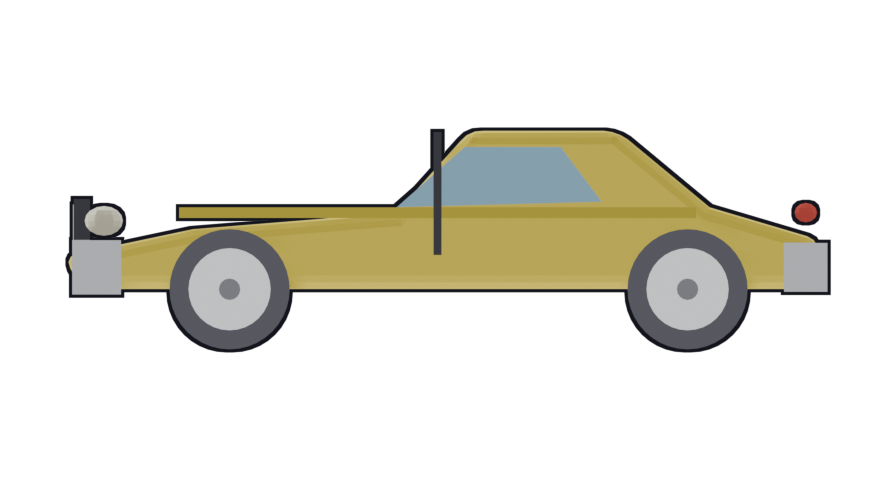
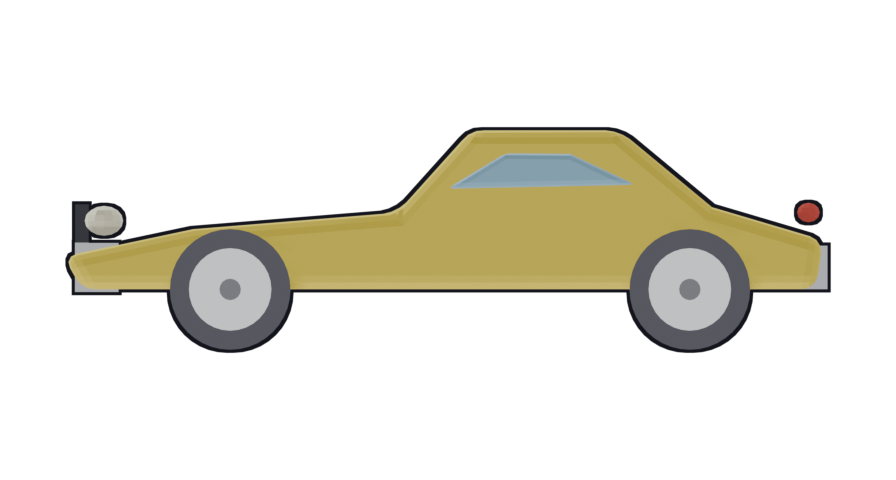
Art: Blender pass — cabin-fitting windows and cleaner cars
Inset glass from each greenhouse silhouette so windows sit inside the
body frame; drop far-side lights/flecks; refresh skyline and trees.

diff --git a/tools/blender/models.py b/tools/blender/models.py
@@ -62,6 +62,20 @@ def _wheel_arch(
     ]
 
 
+def _inset_poly(
+    pts: list[tuple[float, float]], amount: float = 0.1
+) -> list[tuple[float, float]]:
+    """Pull polygon vertices toward the centroid so glass sits inside a frame."""
+    cx = sum(p[0] for p in pts) / len(pts)
+    cz = sum(p[1] for p in pts) / len(pts)
+    out: list[tuple[float, float]] = []
+    for x, z in pts:
+        dx, dz = cx - x, cz - z
+        dist = math.hypot(dx, dz) or 1.0
+        out.append((x + dx / dist * amount, z + dz / dist * amount))
+    return out
+
+
 def _headlight(name: str, loc: tuple[float, float, float], lit: bool = True):
     color = (1.0, 0.95, 0.7, 1.0) if lit else (0.85, 0.55, 0.15, 1.0)
     return mesh_uv_sphere(
@@ -179,16 +193,19 @@ def build_car(
     bevel(body, width=0.05, segments=3)
     parts: list[bpy.types.Object] = [body]
 
-    # Window insert (inset silhouette on the cabin).
+    # Glass fills the cabin with a body frame. Derive from greenhouse corners,
+    # then inset (body bevel ~0.05 + outline need ~0.1 clear frame).
+    glass_w = 1.22
     if kind == "bus":
-        win = extrude_profile(
-            f"{kind}_win",
-            [(1.2, 0.85), (1.3, 1.4), (-1.3, 1.4), (-1.2, 0.85)],
-            width=1.18, material=glass,
+        L = length * 0.5
+        win_pts = _inset_poly(
+            [(L * 0.78, 1.0), (L * 0.82, 1.42), (-L * 0.82, 1.42), (-L * 0.78, 1.0)],
+            0.1,
         )
+        win = extrude_profile(f"{kind}_win", win_pts, width=glass_w, material=glass)
         parts.append(win)
         stripe = mesh_cube(
-            f"{kind}_stripe", (3.3, 1.2, 0.14), (0, 0, 0.7),
+            f"{kind}_stripe", (3.0, 1.16, 0.12), (0, 0, 0.7),
             toon_material(f"{kind}_stripe", (1.0, 0.86, 0.12, 1.0), steps=2),
         )
         parts.append(stripe)
@@ -198,93 +215,106 @@ def build_car(
             toon_material(f"{kind}_seat", (0.45, 0.12, 0.12, 1.0), steps=2),
         )
         bevel(seat, width=0.05, segments=3)
-        screen = mesh_cube(f"{kind}_screen", (0.06, 0.85, 0.4), (0.15, 0, 0.85), glass)
+        # Windscreen sits on the near face only — avoid a full-width fleck.
+        screen = mesh_cube(f"{kind}_screen", (0.04, 0.35, 0.26), (0.12, 0.55, 0.8), glass)
         parts.extend([seat, screen])
     else:
-        # Glass band following the greenhouse roughly.
+        L = length * 0.5
         if kind == "sports":
-            win_pts = [(0.2, 0.5), (-0.05, 0.72), (-0.4, 0.72), (-0.55, 0.52)]
+            cabin = [
+                (L * 0.10, 0.54),
+                (-L * 0.06, 0.74),
+                (-L * 0.40, 0.74),
+                (-L * 0.58, 0.56),
+            ]
+            win_pts = _inset_poly(cabin, 0.12)
         elif kind == "limo":
-            win_pts = [(1.2, 0.65), (0.9, 0.98), (-1.8, 0.98), (-2.2, 0.65)]
+            cabin = [
+                (L * 0.45, 0.74),
+                (L * 0.28, 1.0),
+                (-L * 0.48, 1.0),
+                (-L * 0.64, 0.74),
+            ]
+            win_pts = _inset_poly(cabin, 0.12)
         else:
-            win_pts = [(0.7, 0.7), (0.15, 1.08), (-0.7, 1.08), (-1.1, 0.72)]
-        win = extrude_profile(f"{kind}_win", win_pts, width=1.18, material=glass)
+            # Stay inside A/C pillars after body bevel + PNG outline.
+            roof = 1.2 if kind != "sunroof" else 1.22
+            cabin = [
+                (L * 0.28, 0.78),
+                (L * 0.0, roof - 0.08),
+                (-L * 0.28, roof - 0.08),
+                (-L * 0.42, 0.80),
+            ]
+            win_pts = _inset_poly(cabin, 0.12)
+        win = extrude_profile(f"{kind}_win", win_pts, width=glass_w, material=glass)
+        bevel(win, width=0.02, segments=2)
         parts.append(win)
 
-    # Bumpers + grille + lights.
-    parts.append(mesh_cube(f"{kind}_fb", (0.18, 1.2, 0.2), (length * 0.48, 0, 0.28), chrome))
-    parts.append(mesh_cube(f"{kind}_rb", (0.16, 1.2, 0.18), (-length * 0.48, 0, 0.28), chrome))
-    grille = mesh_cube(
-        f"{kind}_grille", (0.06, 0.7, 0.22), (length * 0.50, 0, 0.42), dark
-    )
-    parts.append(grille)
-    for i, gy in enumerate((-0.18, 0.0, 0.18)):
+    # Bumpers + near-side lights only (far-side lights ghost in ortho +Y).
+    parts.append(mesh_cube(f"{kind}_fb", (0.16, 1.05, 0.18), (length * 0.48, 0, 0.28), chrome))
+    parts.append(mesh_cube(f"{kind}_rb", (0.14, 1.05, 0.16), (-length * 0.48, 0, 0.28), chrome))
+    parts.append(mesh_cube(f"{kind}_grille", (0.05, 0.55, 0.18), (length * 0.50, 0, 0.42), dark))
+    parts.append(_headlight(f"{kind}_hl", (length * 0.47, 0.4, 0.45)))
+    parts.append(_taillight(f"{kind}_tl", (-length * 0.48, 0.4, 0.48)))
+
+    # Body-panel trim — keep below the beltline so it never cuts glass.
+    if kind != "sports":
         parts.append(
             mesh_cube(
-                f"{kind}_gbar{i}", (0.04, 0.08, 0.18),
-                (length * 0.505, gy, 0.42), chrome,
+                f"{kind}_cline", (length * 0.55, 1.12, 0.035), (0.0, 0, 0.46),
+                toon_material(
+                    f"{kind}_cline",
+                    tuple(max(0, c * 0.75) for c in body_color[:3]) + (1.0,),
+                    steps=2,
+                ),
             )
         )
-    parts.append(_headlight(f"{kind}_hl", (length * 0.47, 0.35, 0.45)))
-    parts.append(_headlight(f"{kind}_hl2", (length * 0.47, -0.35, 0.45)))
-    parts.append(_taillight(f"{kind}_tl", (-length * 0.48, 0.35, 0.48)))
-    parts.append(_taillight(f"{kind}_tl2", (-length * 0.48, -0.35, 0.48)))
+        parts.append(mesh_cube(f"{kind}_door", (0.03, 1.12, 0.26), (-0.05, 0, 0.46), dark))
 
-    # Character line + door seam for silhouette interest.
-    parts.append(
-        mesh_cube(
-            f"{kind}_cline", (length * 0.7, 1.17, 0.04), (0.05, 0, 0.48),
-            toon_material(f"{kind}_cline", tuple(max(0, c * 0.75) for c in body_color[:3]) + (1.0,), steps=2),
-        )
-    )
-    parts.append(mesh_cube(f"{kind}_door", (0.03, 1.18, 0.45), (0.05, 0, 0.55), dark))
-
-    # Side-view plates: skip mirrors — they read as floating flecks after outline.
-
-    # Sports spoiler skipped in side-view plates — thin wings become floating flecks.
     if kind == "taxi":
         sign = mesh_cube(
-            f"{kind}_sign", (0.42, 0.3, 0.22), (0.0, 0, 1.25),
+            f"{kind}_sign", (0.36, 0.28, 0.18), (0.0, 0, 1.28),
             toon_material(f"{kind}_sign", (0.12, 0.12, 0.12, 1.0), steps=2),
         )
         glow = mesh_cube(
-            f"{kind}_sg", (0.34, 0.24, 0.12), (0.0, 0, 1.28),
+            f"{kind}_sg", (0.28, 0.22, 0.1), (0.0, 0, 1.32),
             toon_material(f"{kind}_sg", (1.0, 0.85, 0.1, 1.0), steps=2),
         )
         parts.extend([sign, glow])
     elif kind == "police":
         bar = mesh_cube(
-            f"{kind}_bar", (0.55, 0.8, 0.14), (0.0, 0, 1.28),
+            f"{kind}_bar", (0.5, 0.7, 0.12), (0.0, 0, 1.24),
             toon_material(f"{kind}_bar", (0.1, 0.1, 0.12, 1.0), steps=2),
         )
         blue = mesh_uv_sphere(
-            f"{kind}_blue", 0.12, (-0.12, 0, 1.36),
+            f"{kind}_blue", 0.1, (-0.12, 0.15, 1.32),
             toon_material(f"{kind}_blue", (0.15, 0.45, 1.0, 1.0), steps=2),
-            scale=(1.2, 0.8, 0.55),
+            scale=(1.1, 0.7, 0.5),
         )
         red = mesh_uv_sphere(
-            f"{kind}_red", 0.12, (0.12, 0, 1.36),
+            f"{kind}_red", 0.1, (0.12, 0.15, 1.32),
             toon_material(f"{kind}_red", (1.0, 0.15, 0.12, 1.0), steps=2),
-            scale=(1.2, 0.8, 0.55),
+            scale=(1.1, 0.7, 0.5),
         )
         stripe = mesh_cube(
-            f"{kind}_stripe", (length * 0.85, 1.18, 0.12), (0, 0, 0.55),
+            f"{kind}_stripe", (length * 0.7, 1.12, 0.1), (0, 0, 0.52),
             toon_material(f"{kind}_stripe", (0.95, 0.95, 0.97, 1.0), steps=2),
         )
         parts.extend([bar, blue, red, stripe])
     elif kind == "washed":
         spark = toon_material(f"{kind}_spark", (1.0, 1.0, 1.0, 1.0), steps=2)
-        for i, loc in enumerate([(0.5, 0.2, 0.75), (0.0, -0.1, 1.1), (-0.4, 0.15, 1.05)]):
+        for i, loc in enumerate([(0.45, 0.5, 0.75), (-0.15, 0.45, 1.05), (-0.45, 0.5, 0.9)]):
             parts.append(
-                mesh_uv_sphere(f"{kind}_sp{i}", 0.09, loc, spark, scale=(1.0, 0.35, 1.0))
+                mesh_uv_sphere(f"{kind}_sp{i}", 0.08, loc, spark, scale=(1.0, 0.3, 1.0))
             )
     elif kind == "sunroof":
-        hatch = mesh_cube(f"{kind}_hatch", (0.5, 0.5, 0.06), (-0.1, 0, 1.22), dark)
-        g = mesh_cube(f"{kind}_hg", (0.36, 0.36, 0.05), (-0.1, 0, 1.25), glass)
+        hatch = mesh_cube(f"{kind}_hatch", (0.42, 0.45, 0.05), (-0.08, 0, 1.24), dark)
+        g = mesh_cube(f"{kind}_hg", (0.3, 0.32, 0.04), (-0.08, 0, 1.27), glass)
         parts.extend([hatch, g])
     elif kind == "limo":
-        for i, x in enumerate((-0.9, -0.15, 0.6)):
-            parts.append(mesh_cube(f"{kind}_door{i}", (0.04, 1.18, 0.4), (x, 0, 0.55), chrome))
+        # Pillars stop under the glass beltline.
+        for i, x in enumerate((-0.85, -0.1, 0.45)):
+            parts.append(mesh_cube(f"{kind}_door{i}", (0.035, 1.12, 0.22), (x, 0, 0.48), chrome))
 
     if with_wheels:
         xs = (-length * 0.32, length * 0.3)
